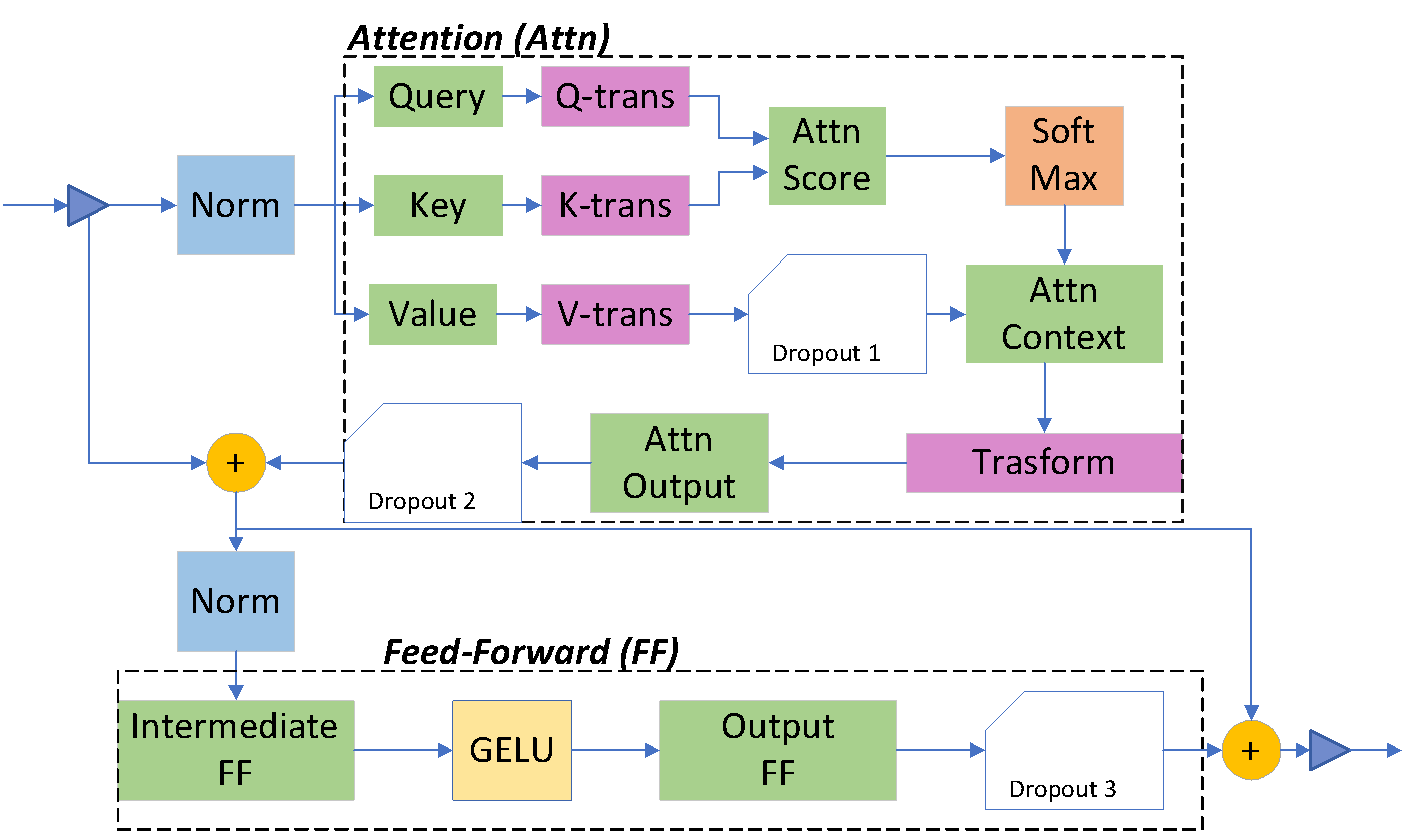
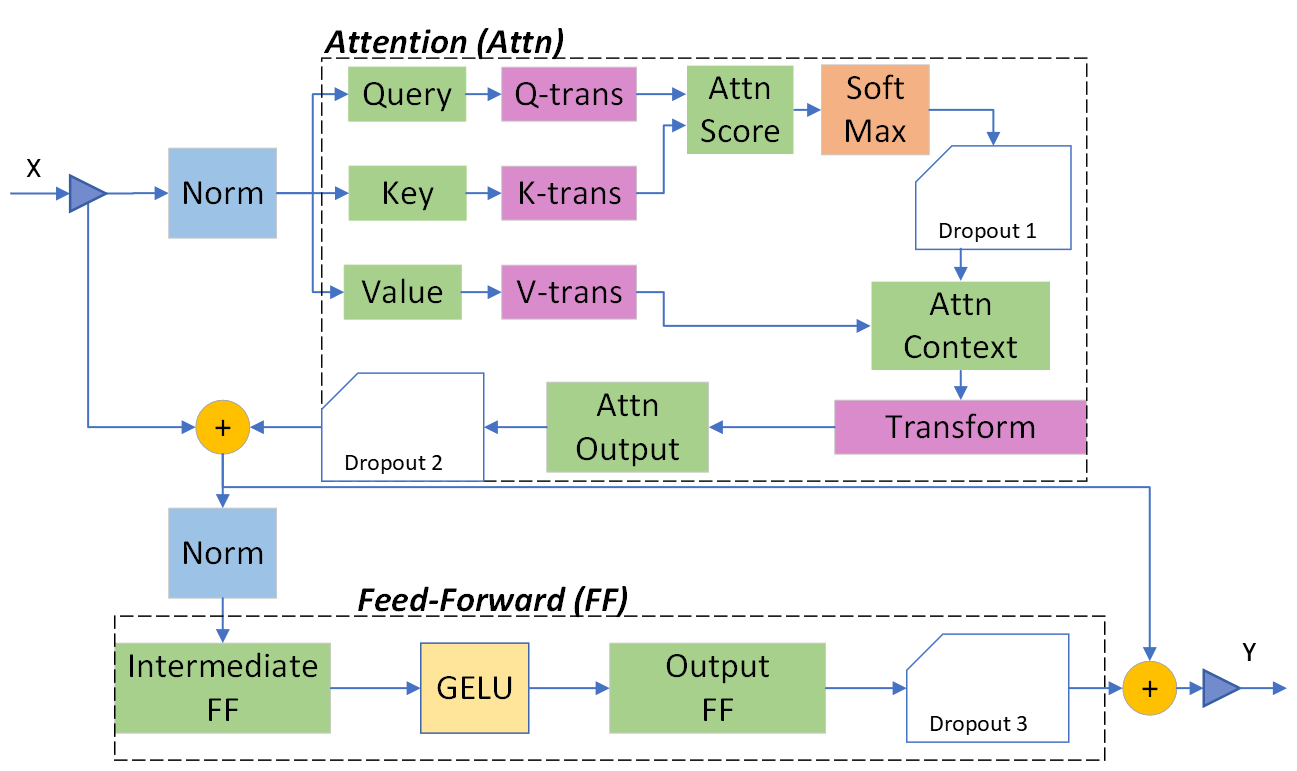
new transformer pre-ln image (#268)

diff --git a/docs/_tutorials/bert-finetuning.md b/docs/_tutorials/bert-finetuning.md
@@ -301,7 +301,7 @@ Table 4. The setting of memory-optimization flags for a range of micro-batch siz
 
 ### FineTuning model pre-trained with DeepSpeed Transformer Kernels
 
-Fine-tuning the model pre-trained using DeepSpeed Transformer and the recipe in [DeepSpeed Fast-Bert Training](/fast_bert/) should yield F1 score of 90.5 and is expected to increase if you let the pre-training longer than suggested in the tutorial.
+Fine-tuning the model pre-trained using DeepSpeed Transformer and the recipe in [DeepSpeed Fast-Bert Training](https://www.deepspeed.ai/news/2020/05/27/fastest-bert-training.html) should yield F1 score of 90.5 and is expected to increase if you let the pre-training longer than suggested in the tutorial.
 
 To get these results, we do require some tuning of the dropout settings as described below:
 
